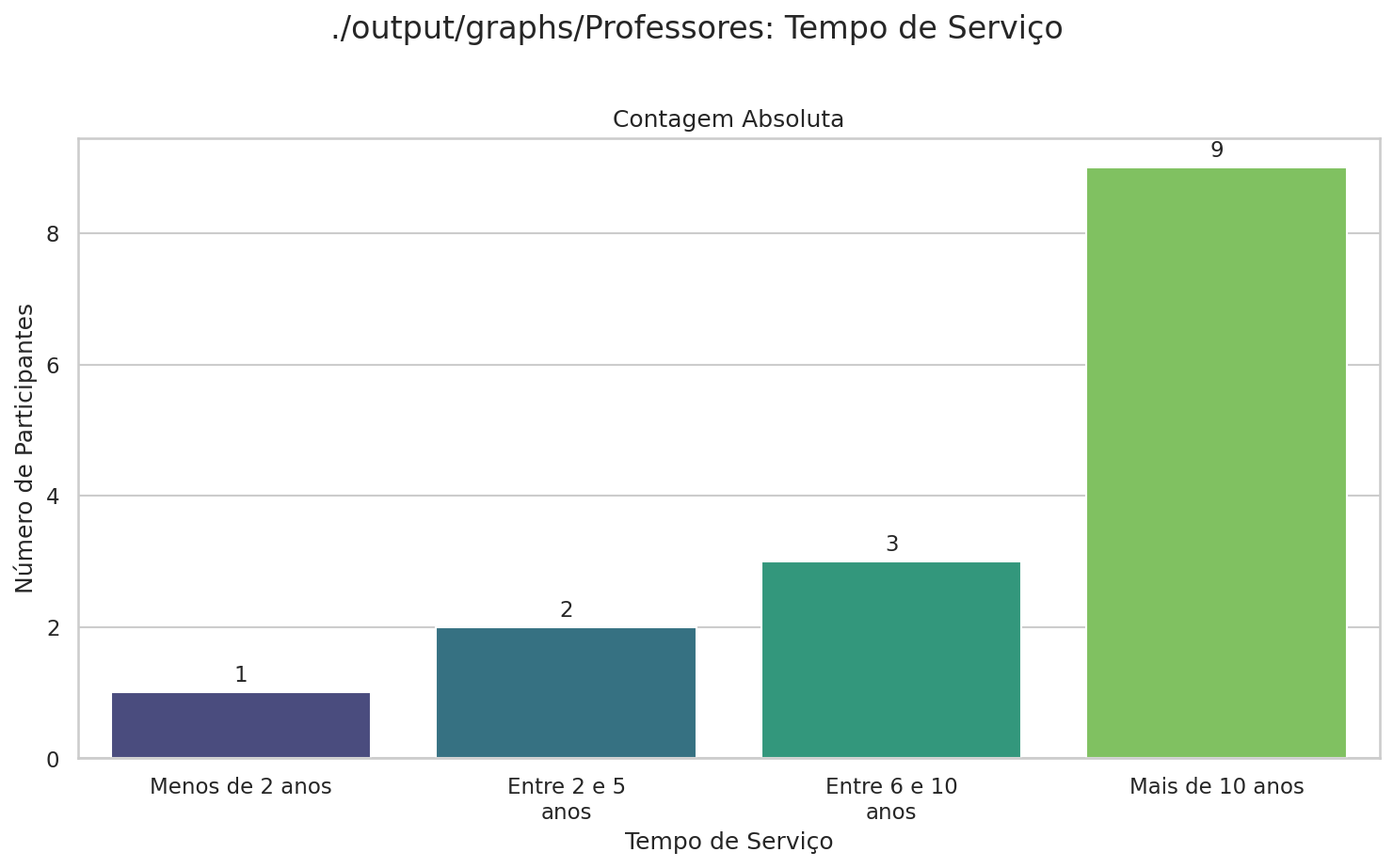
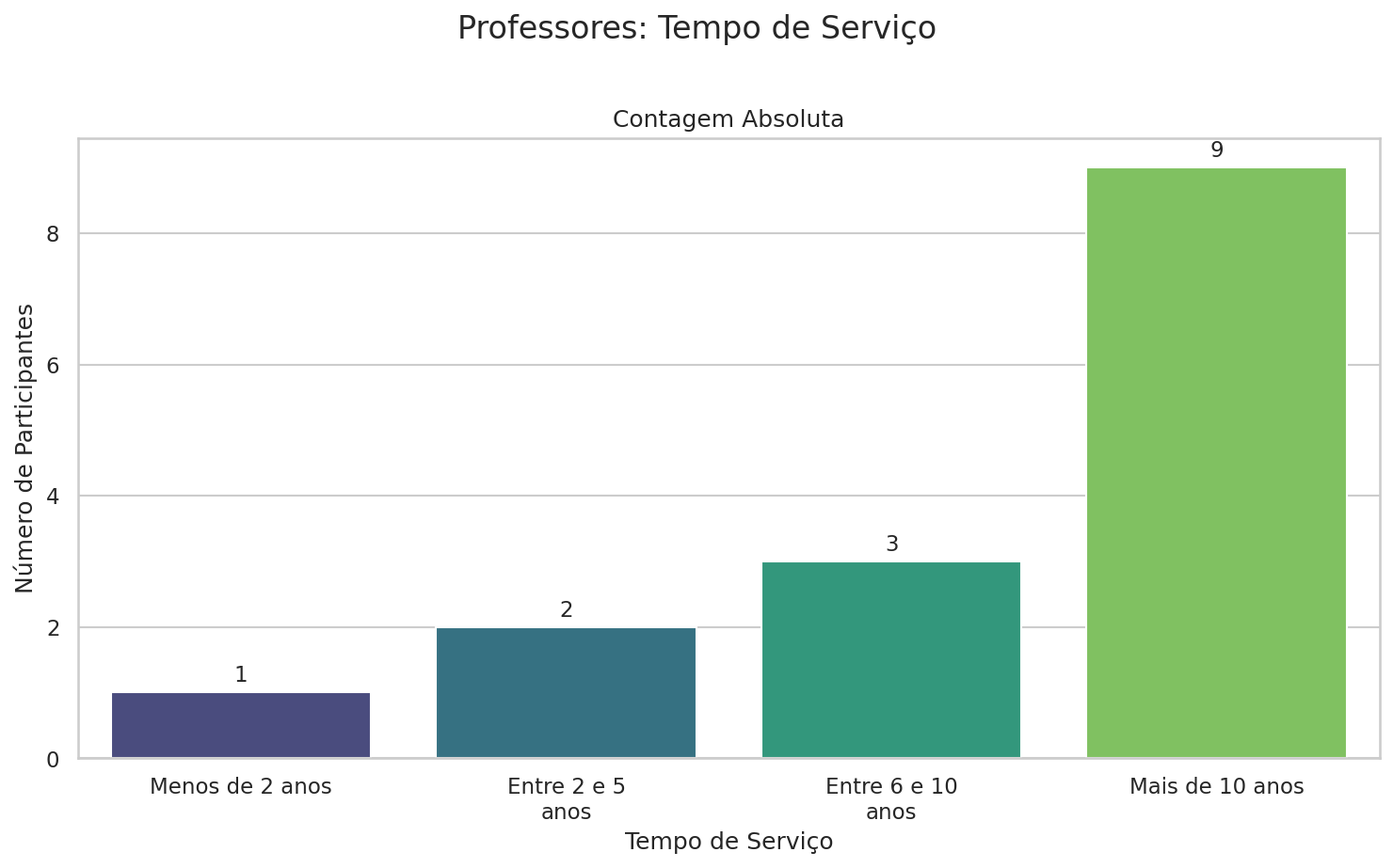
feat: updating code

Changed region(s): [[0.2486, 0.0, 0.777, 0.0607]]

diff --git a/app/process.py b/app/process.py
@@ -3,7 +3,7 @@ import numpy as np
 
 # --- 1. Load and Initial Clean ---
 try:
-    df = pd.read_csv('./input/teste.csv')
+    df = pd.read_csv('./input/respostas.csv')
     print("CSV loaded successfully.")
 except FileNotFoundError:
     print("Error: CSV file not found. Make sure 'Avaliação da Evolução dos Métodos de Planejamento de Aula.csv' is in the current directory.")
@@ -36,33 +36,33 @@ rename_map_prof = {
     '1.2 - Quais segmentos você leciona atualmente?': 'P1.2_Segmentos',
     '1.3 - Em uma escala de muito baixo a muito alto, qual seu nível de conforto geral com o uso de tecnologias digitais?': 'P1.3_Conforto_Tec',
     '1.4 - Para quantas TURMAS diferentes você leciona neste ano letivo?': 'P1.4_Num_Turmas',
-    '1.5 - Ao todo, quantos ""PLANOS DE AULA/CRONOGRAMA DE AULA"" (Conjunto de planejamentos de uma disciplina em um bimestre) você é responsável por desempenhar?': 'P1.5_Num_Planos',
-    '1.6 - Você também leciona em outra(s) escola(s) além da E.E. Doutor José Augusto?\xa0 Se sim,\xa0qual é o principal método de gestão acadêmica utilizado?': 'P1.6_Outra_Escola_Metodo',
+    '1.5 - Ao todo, quantos "PLANOS DE AULA/CRONOGRAMA DE AULA" (Conjunto de planejamentos de uma disciplina em um bimestre) você é responsável por desempenhar?': 'P1.5_Num_Planos',
+    '1.6 - Você também leciona em outra(s) escola(s) além da E.E. Doutor José Augusto?  Se sim, qual é o principal método de gestão acadêmica utilizado?': 'P1.6_Outra_Escola_Metodo',
     # Section 2: Eficiência
     '2.1 - O método era rápido para registrar planejamentos de aula [Manual]': 'P2.1_Rapidez_Manual',
     '2.1 - O método era rápido para registrar planejamentos de aula [Planilha]': 'P2.1_Rapidez_Planilha',
     '2.1 - O método era rápido para registrar planejamentos de aula [PlanningApp]': 'P2.1_Rapidez_PlanningApp',
-    '2.2 - Acessar os registros fora do ambiente escolar era uma tarefa simples.\xa0 \xa0[Manual]': 'P2.2_Acesso_Fora_Manual',
-    '2.2 - Acessar os registros fora do ambiente escolar era uma tarefa simples.\xa0 \xa0[Planilha]': 'P2.2_Acesso_Fora_Planilha',
-    '2.2 - Acessar os registros fora do ambiente escolar era uma tarefa simples.\xa0 \xa0[PlanningApp]': 'P2.2_Acesso_Fora_PlanningApp',
-    '2.3 - Era fácil encontrar informações de planejamentos passados.\xa0 \xa0[Manual]': 'P2.3_Encontrar_Info_Manual',
-    '2.3 - Era fácil encontrar informações de planejamentos passados.\xa0 \xa0[Planilha]': 'P2.3_Encontrar_Info_Planilha',
-    '2.3 - Era fácil encontrar informações de planejamentos passados.\xa0 \xa0[PlanningApp]': 'P2.3_Encontrar_Info_PlanningApp',
-    '2.4 - A necessidade de retrabalho (corrigir erros, refazer lançamentos) era baixa.\xa0 \xa0[Manual]': 'P2.4_Retrabalho_Manual',
-    '2.4 - A necessidade de retrabalho (corrigir erros, refazer lançamentos) era baixa.\xa0 \xa0[Planilha]': 'P2.4_Retrabalho_Planilha',
-    '2.4 - A necessidade de retrabalho (corrigir erros, refazer lançamentos) era baixa.\xa0 \xa0[PlanningApp]': 'P2.4_Retrabalho_PlanningApp',
-    '2.5 - O tempo total gasto com tarefas administrativas era razoável.\xa0 \xa0[Manual]': 'P2.5_Tempo_Admin_Manual',
-    '2.5 - O tempo total gasto com tarefas administrativas era razoável.\xa0 \xa0[Planilha]': 'P2.5_Tempo_Admin_Planilha',
-    '2.5 - O tempo total gasto com tarefas administrativas era razoável.\xa0 \xa0[PlanningApp]': 'P2.5_Tempo_Admin_PlanningApp',
+    '2.2 - Acessar os registros fora do ambiente escolar era uma tarefa simples.   [Manual]': 'P2.2_Acesso_Fora_Manual',
+    '2.2 - Acessar os registros fora do ambiente escolar era uma tarefa simples.   [Planilha]': 'P2.2_Acesso_Fora_Planilha',
+    '2.2 - Acessar os registros fora do ambiente escolar era uma tarefa simples.   [PlanningApp]': 'P2.2_Acesso_Fora_PlanningApp',
+    '2.3 - Era fácil encontrar informações de planejamentos passados.   [Manual]': 'P2.3_Encontrar_Info_Manual',
+    '2.3 - Era fácil encontrar informações de planejamentos passados.   [Planilha]': 'P2.3_Encontrar_Info_Planilha',
+    '2.3 - Era fácil encontrar informações de planejamentos passados.   [PlanningApp]': 'P2.3_Encontrar_Info_PlanningApp',
+    '2.4 - A necessidade de retrabalho (corrigir erros, refazer lançamentos) era baixa.   [Manual]': 'P2.4_Retrabalho_Manual',
+    '2.4 - A necessidade de retrabalho (corrigir erros, refazer lançamentos) era baixa.   [Planilha]': 'P2.4_Retrabalho_Planilha',
+    '2.4 - A necessidade de retrabalho (corrigir erros, refazer lançamentos) era baixa.   [PlanningApp]': 'P2.4_Retrabalho_PlanningApp',
+    '2.5 - O tempo total gasto com tarefas administrativas era razoável.   [Manual]': 'P2.5_Tempo_Admin_Manual',
+    '2.5 - O tempo total gasto com tarefas administrativas era razoável.   [Planilha]': 'P2.5_Tempo_Admin_Planilha',
+    '2.5 - O tempo total gasto com tarefas administrativas era razoável.   [PlanningApp]': 'P2.5_Tempo_Admin_PlanningApp',
     '2.6 - No método MANUAL (papel), qual era o tempo médio estimado que você gastava para elaborar o planejamento de UMA aula? ': 'P2.6_Tempo_Aula_Manual',
     '2.7 - No método com PLANILHAS online, qual era o tempo médio estimado que você gastava para elaborar o planejamento de UMA aula?': 'P2.7_Tempo_Aula_Planilha',
     # Section 3: Usabilidade
-    '3.1 - O método era fácil de aprender e usar.\xa0 \xa0[Manual]': 'P3.1_Facil_Aprender_Manual',
-    '3.1 - O método era fácil de aprender e usar.\xa0 \xa0[Planilha]': 'P3.1_Facil_Aprender_Planilha',
-    '3.1 - O método era fácil de aprender e usar.\xa0 \xa0[PlanningApp]': 'P3.1_Facil_Aprender_PlanningApp',
-    '3.2 - As informações estavam organizadas de forma clara e intuitiva.\xa0 \xa0[Manual]': 'P3.2_Org_Clara_Manual',
-    '3.2 - As informações estavam organizadas de forma clara e intuitiva.\xa0 \xa0[Planilha]': 'P3.2_Org_Clara_Planilha',
-    '3.2 - As informações estavam organizadas de forma clara e intuitiva.\xa0 \xa0[PlanningApp]': 'P3.2_Org_Clara_PlanningApp',
+    '3.1 - O método era fácil de aprender e usar.   [Manual]': 'P3.1_Facil_Aprender_Manual',
+    '3.1 - O método era fácil de aprender e usar.   [Planilha]': 'P3.1_Facil_Aprender_Planilha',
+    '3.1 - O método era fácil de aprender e usar.   [PlanningApp]': 'P3.1_Facil_Aprender_PlanningApp',
+    '3.2 - As informações estavam organizadas de forma clara e intuitiva.   [Manual]': 'P3.2_Org_Clara_Manual',
+    '3.2 - As informações estavam organizadas de forma clara e intuitiva.   [Planilha]': 'P3.2_Org_Clara_Planilha',
+    '3.2 - As informações estavam organizadas de forma clara e intuitiva.   [PlanningApp]': 'P3.2_Org_Clara_PlanningApp',
     '3.3 - O método ajudava a prevenir erros comuns no planejamento. [Manual]': 'P3.3_Prev_Erros_Manual',
     '3.3 - O método ajudava a prevenir erros comuns no planejamento. [Planilha]': 'P3.3_Prev_Erros_Planilha',
     '3.3 - O método ajudava a prevenir erros comuns no planejamento. [PlanningApp]': 'P3.3_Prev_Erros_PlanningApp',
@@ -85,33 +85,33 @@ rename_map_prof = {
     '4.3 - O método facilitava a colaboração e o compartilhamento de planos com outros professores. [Manual]': 'P4.3_Colaboracao_Manual',
     '4.3 - O método facilitava a colaboração e o compartilhamento de planos com outros professores. [Planilha]': 'P4.3_Colaboracao_Planilha',
     '4.3 - O método facilitava a colaboração e o compartilhamento de planos com outros professores. [PlanningApp]': 'P4.3_Colaboracao_PlanningApp',
-    '4.4 - A comunicação com a coordenação pedagógica era eficiente.\xa0 \xa0[Manual]': 'P4.4_Comun_Coord_Manual',
-    '4.4 - A comunicação com a coordenação pedagógica era eficiente.\xa0 \xa0[Planilha]': 'P4.4_Comun_Coord_Planilha',
-    '4.4 - A comunicação com a coordenação pedagógica era eficiente.\xa0 \xa0[PlanningApp]': 'P4.4_Comun_Coord_PlanningApp',
+    '4.4 - A comunicação com a coordenação pedagógica era eficiente.   [Manual]': 'P4.4_Comun_Coord_Manual',
+    '4.4 - A comunicação com a coordenação pedagógica era eficiente.   [Planilha]': 'P4.4_Comun_Coord_Planilha',
+    '4.4 - A comunicação com a coordenação pedagógica era eficiente.   [PlanningApp]': 'P4.4_Comun_Coord_PlanningApp',
     # Section 5: Bem-Estar
-    '5.1 - O método contribuía para reduzir meu nível de estresse com tarefas burocráticas.\xa0 \xa0[Manual]': 'P5.1_Reduz_Estresse_Manual',
-    '5.1 - O método contribuía para reduzir meu nível de estresse com tarefas burocráticas.\xa0 \xa0[Planilha]': 'P5.1_Reduz_Estresse_Planilha',
-    '5.1 - O método contribuía para reduzir meu nível de estresse com tarefas burocráticas.\xa0 \xa0[PlanningApp]': 'P5.1_Reduz_Estresse_PlanningApp',
-    '5.2 - O uso da ferramenta frequentemente me causava frustração (tecnoestresse).\xa0 \xa0[Manual]': 'P5.2_Causa_Frustracao_Manual',
-    '5.2 - O uso da ferramenta frequentemente me causava frustração (tecnoestresse).\xa0 \xa0[Planilha]': 'P5.2_Causa_Frustracao_Planilha',
-    '5.2 - O uso da ferramenta frequentemente me causava frustração (tecnoestresse).\xa0 \xa0[PlanningApp]': 'P5.2_Causa_Frustracao_PlanningApp',
-    '5.3 - Eu sentia que tinha controle e autonomia sobre meus planejamentos.\xa0 \xa0[Manual]': 'P5.3_Controle_Autonomia_Manual',
-    '5.3 - Eu sentia que tinha controle e autonomia sobre meus planejamentos.\xa0 \xa0[Planilha]': 'P5.3_Controle_Autonomia_Planilha',
-    '5.3 - Eu sentia que tinha controle e autonomia sobre meus planejamentos.\xa0 \xa0[PlanningApp]': 'P5.3_Controle_Autonomia_PlanningApp',
-    '5.4 - O método passava uma imagem de maior profissionalismo e organização do meu trabalho.\xa0 \xa0[Manual]': 'P5.4_Profissionalismo_Manual',
-    '5.4 - O método passava uma imagem de maior profissionalismo e organização do meu trabalho.\xa0 \xa0[Planilha]': 'P5.4_Profissionalismo_Planilha',
-    '5.4 - O método passava uma imagem de maior profissionalismo e organização do meu trabalho.\xa0 \xa0[PlanningApp]': 'P5.4_Profissionalismo_PlanningApp',
-    '5.5 - O método liberava meu tempo para focar em atividades mais estratégicas.\xa0 \xa0[Manual]': 'P5.5_Libera_Tempo_Manual',
-    '5.5 - O método liberava meu tempo para focar em atividades mais estratégicas.\xa0 \xa0[Planilha]': 'P5.5_Libera_Tempo_Planilha',
-    '5.5 - O método liberava meu tempo para focar em atividades mais estratégicas.\xa0 \xa0[PlanningApp]': 'P5.5_Libera_Tempo_PlanningApp',
+    '5.1 - O método contribuía para reduzir meu nível de estresse com tarefas burocráticas.   [Manual]': 'P5.1_Reduz_Estresse_Manual',
+    '5.1 - O método contribuía para reduzir meu nível de estresse com tarefas burocráticas.   [Planilha]': 'P5.1_Reduz_Estresse_Planilha',
+    '5.1 - O método contribuía para reduzir meu nível de estresse com tarefas burocráticas.   [PlanningApp]': 'P5.1_Reduz_Estresse_PlanningApp',
+    '5.2 - O uso da ferramenta frequentemente me causava frustração (tecnoestresse).   [Manual]': 'P5.2_Causa_Frustracao_Manual',
+    '5.2 - O uso da ferramenta frequentemente me causava frustração (tecnoestresse).   [Planilha]': 'P5.2_Causa_Frustracao_Planilha',
+    '5.2 - O uso da ferramenta frequentemente me causava frustração (tecnoestresse).   [PlanningApp]': 'P5.2_Causa_Frustracao_PlanningApp',
+    '5.3 - Eu sentia que tinha controle e autonomia sobre meus planejamentos.   [Manual]': 'P5.3_Controle_Autonomia_Manual',
+    '5.3 - Eu sentia que tinha controle e autonomia sobre meus planejamentos.   [Planilha]': 'P5.3_Controle_Autonomia_Planilha',
+    '5.3 - Eu sentia que tinha controle e autonomia sobre meus planejamentos.   [PlanningApp]': 'P5.3_Controle_Autonomia_PlanningApp',
+    '5.4 - O método passava uma imagem de maior profissionalismo e organização do meu trabalho.   [Manual]': 'P5.4_Profissionalismo_Manual',
+    '5.4 - O método passava uma imagem de maior profissionalismo e organização do meu trabalho.   [Planilha]': 'P5.4_Profissionalismo_Planilha',
+    '5.4 - O método passava uma imagem de maior profissionalismo e organização do meu trabalho.   [PlanningApp]': 'P5.4_Profissionalismo_PlanningApp',
+    '5.5 - O método liberava meu tempo para focar em atividades mais estratégicas.   [Manual]': 'P5.5_Libera_Tempo_Manual',
+    '5.5 - O método liberava meu tempo para focar em atividades mais estratégicas.   [Planilha]': 'P5.5_Libera_Tempo_Planilha',
+    '5.5 - O método liberava meu tempo para focar em atividades mais estratégicas.   [PlanningApp]': 'P5.5_Libera_Tempo_PlanningApp',
     # Section 6: Abertas
-    '6.1 - Por favor, descreva uma situação ou tarefa específica que o novo Sistema de Planejamento tornou muito mais simples de realizar em comparação com os métodos anteriores.\xa0 ': 'P6.1_Situacao_Simples',
-    '6.2 - Pensando no impacto final do nosso trabalho, você acredita que a organização proporcionada pelo Sistema de Planejamento pode, de alguma forma, beneficiar os alunos indiretamente? Se sim, como?\xa0 ': 'P6.2_Beneficio_Alunos',
+    '6.1 - Por favor, descreva uma situação ou tarefa específica que o novo Sistema de Planejamento tornou muito mais simples de realizar em comparação com os métodos anteriores.  ': 'P6.1_Situacao_Simples',
+    '6.2 - Pensando no impacto final do nosso trabalho, você acredita que a organização proporcionada pelo Sistema de Planejamento pode, de alguma forma, beneficiar os alunos indiretamente? Se sim, como?  ': 'P6.2_Beneficio_Alunos',
     '6.3 - Se você pudesse definir em uma única palavra ou expressão o sentimento ao usar o método manual, qual seria?': 'P6.3_Sentimento_Manual',
     '6.4 - Se você pudesse definir em uma única palavra ou expressão o sentimento ao usar o método de Planilhas, qual seria?': 'P6.4_Sentimento_Planilha',
     '6.5 - Se você pudesse definir em uma única palavra ou expressão o sentimento ao usar o método de Sistema de Planejamento Online, qual seria?': 'P6.5_Sentimento_PlanningApp',
     '6.6 - Você tem alguma sugestão de melhoria para o módulo de professor do sistema de planejamento? (Ex: novos relatórios, dashboards, notificações, etc.). ': 'P6.6_Sugestao_Melhoria',
-    '6.7 - Pensando nas funcionalidades pedagógicas (criação de planejamentos, gestão de turmas etc.), quais foram os principais benefícios ou desafios encontrados no novo\xa0 sistema de planejamento?': 'P6.7_Beneficios_Desafios'
+    '6.7 - Pensando nas funcionalidades pedagógicas (criação de planejamentos, gestão de turmas etc.), quais foram os principais benefícios ou desafios encontrados no novo  sistema de planejamento?': 'P6.7_Beneficios_Desafios'
 }
 
 # Apply renaming (ignore errors for columns not present, e.g., supervisor questions)
@@ -121,30 +121,83 @@ df_professores = df_professores.rename(columns=rename_map_prof, errors='ignore')
 rename_map_sup = {
     # Perfil (1.1 a 1.3)
     '1.1 - Qual sua principal função na equipe gestora?': 'S1.1_Funcao_Gestora',
-    '1.2 - Há quantos anos você atua em cargos de gestão ou supervisão nesta escola?\xa0 ': 'S1.2_Tempo_Gestao',
-    '1.3 - Sua rotina de trabalho envolve ou envolveu o uso de outras plataformas ou sistemas de gestão em outras instituições?\xa0 ': 'S1.3_Outras_Plataformas',
+    '1.2 - Há quantos anos você atua em cargos de gestão ou supervisão nesta escola?  ': 'S1.2_Tempo_Gestao',
+    '1.3 - Sua rotina de trabalho envolve ou envolveu o uso de outras plataformas ou sistemas de gestão em outras instituições?  ': 'S1.3_Outras_Plataformas',
     # Seção 2: Supervisão
-    '2.1 - Era fácil ter uma visão geral e centralizada do status dos planejamentos de todos os professores.\xa0 \xa0[Manual]': 'S2.1_Visao_Geral_Manual',
-    '2.1 - Era fácil ter uma visão geral e centralizada do status dos planejamentos de todos os professores.\xa0 \xa0[Planilha]': 'S2.1_Visao_Geral_Planilha',
-    '2.1 - Era fácil ter uma visão geral e centralizada do status dos planejamentos de todos os professores.\xa0 \xa0[PlanningApp]': 'S2.1_Visao_Geral_PlanningApp',
-    '2.2 - O processo de fornecer feedback (avaliacão) aos professores era ágil e bem documentado.\xa0 \xa0[Manual]': 'S2.2_Feedback_Agil_Manual',
-    '2.2 - O processo de fornecer feedback (avaliacão) aos professores era ágil e bem documentado.\xa0 \xa0[Planilha]': 'S2.2_Feedback_Agil_Planilha',
-    '2.2 - O processo de fornecer feedback (avaliacão) aos professores era ágil e bem documentado.\xa0 \xa0[PlanningApp]': 'S2.2_Feedback_Agil_PlanningApp',
-    '2.3 - Identificar planejamentos pendentes ou que precisavam de revisão era uma tarefa rápida.\xa0 \xa0[Manual]': 'S2.3_Identifica_Pendentes_Manual',
-    '2.3 - Identificar planejamentos pendentes ou que precisavam de revisão era uma tarefa rápida.\xa0 \xa0[Planilha]': 'S2.3_Identifica_Pendentes_Planilha',
-    '2.3 - Identificar planejamentos pendentes ou que precisavam de revisão era uma tarefa rápida.\xa0 \xa0[PlanningApp]': 'S2.3_Identifica_Pendentes_PlanningApp',
+    '2.1 - Era fácil ter uma visão geral e centralizada do status dos planejamentos de todos os professores.   [Manual]': 'S2.1_Visao_Geral_Manual',
+    '2.1 - Era fácil ter uma visão geral e centralizada do status dos planejamentos de todos os professores.   [Planilha]': 'S2.1_Visao_Geral_Planilha',
+    '2.1 - Era fácil ter uma visão geral e centralizada do status dos planejamentos de todos os professores.   [PlanningApp]': 'S2.1_Visao_Geral_PlanningApp',
+    '2.2 - O processo de fornecer feedback (avaliacão) aos professores era ágil e bem documentado.   [Manual]': 'S2.2_Feedback_Agil_Manual',
+    '2.2 - O processo de fornecer feedback (avaliacão) aos professores era ágil e bem documentado.   [Planilha]': 'S2.2_Feedback_Agil_Planilha',
+    '2.2 - O processo de fornecer feedback (avaliacão) aos professores era ágil e bem documentado.   [PlanningApp]': 'S2.2_Feedback_Agil_PlanningApp',
+    '2.3 - Identificar planejamentos pendentes ou que precisavam de revisão era uma tarefa rápida.   [Manual]': 'S2.3_Identifica_Pendentes_Manual',
+    '2.3 - Identificar planejamentos pendentes ou que precisavam de revisão era uma tarefa rápida.   [Planilha]': 'S2.3_Identifica_Pendentes_Planilha',
+    '2.3 - Identificar planejamentos pendentes ou que precisavam de revisão era uma tarefa rápida.   [PlanningApp]': 'S2.3_Identifica_Pendentes_PlanningApp',
     '2.4 - Verificar o alinhamento dos planejamentos com a BNCC , CRMG, ENADE, SAEB e outras diretrizes era um processo simples. [Manual]': 'S2.4_Verifica_Alinhamento_Manual',
     '2.4 - Verificar o alinhamento dos planejamentos com a BNCC , CRMG, ENADE, SAEB e outras diretrizes era um processo simples. [Planilha]': 'S2.4_Verifica_Alinhamento_Planilha',
     '2.4 - Verificar o alinhamento dos planejamentos com a BNCC , CRMG, ENADE, SAEB e outras diretrizes era um processo simples. [PlanningApp]': 'S2.4_Verifica_Alinhamento_PlanningApp',
-    '2.5 - O tempo gasto em tarefas operacionais de supervisão (procurar arquivos, controlar versões) era baixo.\xa0 \xa0[Manual]': 'S2.5_Tempo_Operacional_Manual',
-    '2.5 - O tempo gasto em tarefas operacionais de supervisão (procurar arquivos, controlar versões) era baixo.\xa0 \xa0[Planilha]': 'S2.5_Tempo_Operacional_Planilha',
-    '2.5 - O tempo gasto em tarefas operacionais de supervisão (procurar arquivos, controlar versões) era baixo.\xa0 \xa0[PlanningApp]': 'S2.5_Tempo_Operacional_PlanningApp',
+    '2.5 - O tempo gasto em tarefas operacionais de supervisão (procurar arquivos, controlar versões) era baixo.   [Manual]': 'S2.5_Tempo_Operacional_Manual',
+    '2.5 - O tempo gasto em tarefas operacionais de supervisão (procurar arquivos, controlar versões) era baixo.   [Planilha]': 'S2.5_Tempo_Operacional_Planilha',
+    '2.5 - O tempo gasto em tarefas operacionais de supervisão (procurar arquivos, controlar versões) era baixo.   [PlanningApp]': 'S2.5_Tempo_Operacional_PlanningApp',
     # Seção 3: Usabilidade
-    '3.1 - O método era fácil de aprender e usar.\xa0 \xa0[Manual]': 'S3.1_Facil_Aprender_Manual',
-    '3.1 - O método era fácil de aprender e usar.\xa0 \xa0[Planilha]': 'S3.1_Facil_Aprender_Planilha',
-    '3.1 - O método era fácil de aprender e usar.\xa0 \xa0[PlanningApp]': 'S3.1_Facil_Aprender_PlanningApp',
-    # ... (Continue mapping ALL supervisor questions from section 3 to 7) ...
-     '7.5 - Você tem alguma sugestão de melhoria para o módulo de supervisão/administração do sistema de planejamento? (Ex: novos relatórios, dashboards, notificações, etc.).\xa0 ': 'S7.5_Sugestao_Melhoria_Sup'
+    '3.1 - O método era fácil de aprender e usar.   [Manual]': 'S3.1_Facil_Aprender_Manual',
+    '3.1 - O método era fácil de aprender e usar.   [Planilha]': 'S3.1_Facil_Aprender_Planilha',
+    '3.1 - O método era fácil de aprender e usar.   [PlanningApp]': 'S3.1_Facil_Aprender_PlanningApp',
+    # Seção 3: Usabilidade (continuação)
+    '3.2 - As informações estavam organizadas de forma clara e intuitiva.   [Manual]': 'S3.2_Org_Clara_Manual',
+    '3.2 - As informações estavam organizadas de forma clara e intuitiva.   [Planilha]': 'S3.2_Org_Clara_Planilha',
+    '3.2 - As informações estavam organizadas de forma clara e intuitiva.   [PlanningApp]': 'S3.2_Org_Clara_PlanningApp',
+    '3.3 - O método ajudava a prevenir erros comuns no planejamento. [Manual]': 'S3.3_Prev_Erros_Manual',
+    '3.3 - O método ajudava a prevenir erros comuns no planejamento. [Planilha]': 'S3.3_Prev_Erros_Planilha',
+    '3.3 - O método ajudava a prevenir erros comuns no planejamento. [PlanningApp]': 'S3.3_Prev_Erros_PlanningApp',
+    '3.4 - Eu me sentia seguro(a) de que os registros não seriam perdidos. [Manual]': 'S3.4_Seguro_Dados_Manual',
+    '3.4 - Eu me sentia seguro(a) de que os registros não seriam perdidos. [Planilha]': 'S3.4_Seguro_Dados_Planilha',
+    '3.4 - Eu me sentia seguro(a) de que os registros não seriam perdidos. [PlanningApp]': 'S3.4_Seguro_Dados_PlanningApp',
+    '3.5 - Era fácil obter ajuda ou suporte em caso de dúvidas sobre o uso. [Manual]': 'S3.5_Suporte_Facil_Manual',
+    '3.5 - Era fácil obter ajuda ou suporte em caso de dúvidas sobre o uso. [Planilha]': 'S3.5_Suporte_Facil_Planilha',
+    '3.5 - Era fácil obter ajuda ou suporte em caso de dúvidas sobre o uso. [PlanningApp]': 'S3.5_Suporte_Facil_PlanningApp',
+    '3.7 - Minha satisfação geral com o método era alta. [Manual]': 'S3.7_Satisfacao_Geral_Manual',
+    '3.7 - Minha satisfação geral com o método era alta. [Planilha]': 'S3.7_Satisfacao_Geral_Planilha',
+    '3.7 - Minha satisfação geral com o método era alta. [PlanningApp]': 'S3.7_Satisfacao_Geral_PlanningApp',
+    # Seção 4: Gestão Administrativa
+    '4.1 - O processo de configurar a estrutura do ano letivo (turmas, disciplinas) era organizado.   [Manual]': 'S4.1_Config_Ano_Manual',
+    '4.1 - O processo de configurar a estrutura do ano letivo (turmas, disciplinas) era organizado.   [Planilha]': 'S4.1_Config_Ano_Planilha',
+    '4.1 - O processo de configurar a estrutura do ano letivo (turmas, disciplinas) era organizado.   [PlanningApp]': 'S4.1_Config_Ano_PlanningApp',
+    '4.2 - Gerenciar os professores era uma tarefa simples.   [Manual]': 'S4.2_Gerencia_Profs_Manual',
+    '4.2 - Gerenciar os professores era uma tarefa simples.   [Planilha]': 'S4.2_Gerencia_Profs_Planilha',
+    '4.2 - Gerenciar os professores era uma tarefa simples.   [PlanningApp]': 'S4.2_Gerencia_Profs_PlanningApp',
+    '4.3 - Eu tinha confiança na segurança e na integridade dos registros sob minha responsabilidade.   [Manual]': 'S4.3_Confianca_Dados_Manual',
+    '4.3 - Eu tinha confiança na segurança e na integridade dos registros sob minha responsabilidade.   [Planilha]': 'S4.3_Confianca_Dados_Planilha',
+    '4.3 - Eu tinha confiança na segurança e na integridade dos registros sob minha responsabilidade.   [PlanningApp]': 'S4.3_Confianca_Dados_PlanningApp',
+    # Seção 5: Visão Estratégica
+    '5.1 - O metodo permitia extrair registros consolidados para apoiar a tomada de decisões pedagógicas.   [Manual]': 'S5.1_Extrai_Dados_Decisao_Manual',
+    '5.1 - O metodo permitia extrair registros consolidados para apoiar a tomada de decisões pedagógicas.   [Planilha]': 'S5.1_Extrai_Dados_Decisao_Planilha',
+    '5.1 - O metodo permitia extrair registros consolidados para apoiar a tomada de decisões pedagógicas.   [PlanningApp]': 'S5.1_Extrai_Dados_Decisao_PlanningApp',
+    '5.2 - O método otimizava a comunicação e a transparência entre a equipe gestora e o corpo docente.   [Manual]': 'S5.2_Otimiza_Comun_Manual',
+    '5.2 - O método otimizava a comunicação e a transparência entre a equipe gestora e o corpo docente.   [Planilha]': 'S5.2_Otimiza_Comun_Planilha',
+    '5.2 - O método otimizava a comunicação e a transparência entre a equipe gestora e o corpo docente.   [PlanningApp]': 'S5.2_Otimiza_Comun_PlanningApp',
+    # Seção 6: Bem-Estar
+    '6.1 - O método contribuía para reduzir meu nível de estresse com tarefas burocráticas.   [Manual]': 'S6.1_Reduz_Estresse_Manual',
+    '6.1 - O método contribuía para reduzir meu nível de estresse com tarefas burocráticas.   [Planilha]': 'S6.1_Reduz_Estresse_Planilha',
+    '6.1 - O método contribuía para reduzir meu nível de estresse com tarefas burocráticas.   [PlanningApp]': 'S6.1_Reduz_Estresse_PlanningApp',
+    '6.2 - O uso da ferramenta frequentemente me causava frustração (tecnoestresse).   [Manual]': 'S6.2_Causa_Frustracao_Manual',
+    '6.2 - O uso da ferramenta frequentemente me causava frustração (tecnoestresse).   [Planilha]': 'S6.2_Causa_Frustracao_Planilha',
+    '6.2 - O uso da ferramenta frequentemente me causava frustração (tecnoestresse).   [PlanningApp]': 'S6.2_Causa_Frustracao_PlanningApp',
+    '6.3 - Eu sentia que tinha controle e autonomia sobre meus planejamentos.   [Manual]': 'S6.3_Controle_Autonomia_Manual',
+    '6.3 - Eu sentia que tinha controle e autonomia sobre meus planejamentos.   [Planilha]': 'S6.3_Controle_Autonomia_Planilha',
+    '6.3 - Eu sentia que tinha controle e autonomia sobre meus planejamentos.   [PlanningApp]': 'S6.3_Controle_Autonomia_PlanningApp',
+    '6.4 - O método passava uma imagem de maior profissionalismo e organização do meu trabalho.   [Manual]': 'S6.4_Profissionalismo_Manual',
+    '6.4 - O método passava uma imagem de maior profissionalismo e organização do meu trabalho.   [Planilha]': 'S6.4_Profissionalismo_Planilha',
+    '6.4 - O método passava uma imagem de maior profissionalismo e organização do meu trabalho.   [PlanningApp]': 'S6.4_Profissionalismo_PlanningApp',
+    '6.5 - O método liberava meu tempo para focar em atividades mais estratégicas.   [Manual]': 'S6.5_Libera_Tempo_Manual',
+    '6.5 - O método liberava meu tempo para focar em atividades mais estratégicas.   [Planilha]': 'S6.5_Libera_Tempo_Planilha',
+    '6.5 - O método liberava meu tempo para focar em atividades mais estratégicas.   [PlanningApp]': 'S6.5_Libera_Tempo_PlanningApp',
+    # Seção 7: Abertas
+    '7.1 - Do ponto de vista da supervisão, qual era o maior ""gargalo"" ou dificuldade no processo de supervisão e acompanhamento dos planejamentos durante a fase das planilhas online?  ': 'S7.1_Gargalo_Planilhas',
+    '7.2 - Qual foi o impacto mais significativo (positivo ou negativo) que o novo sistema de planejamento trouxe para a sua rotina de trabalho como gestor(a)?  ': 'S7.2_Impacto_Significativo',
+    '7.3 - Como o novo sistema de planejamento alterou a dinâmica de feedback (avaliação) e comunicação entre você e os professores sobre os planejamentos?  ': 'S7.3_Dinamica_Feedback',
+    '7.4 - Pensando nas funcionalidades administrativas (criação de turmas, gestão de usuários, etc.), quais foram os principais benefícios ou desafios encontrados no novo  sistema de planejamento ?  ': 'S7.4_Beneficios_Desafios_Admin',
+     '7.5 - Você tem alguma sugestão de melhoria para o módulo de supervisão/administração do sistema de planejamento? (Ex: novos relatórios, dashboards, notificações, etc.).  ': 'S7.5_Sugestao_Melhoria_Sup'
 
 }
 df_supervisores = df_supervisores.rename(columns=rename_map_sup, errors='ignore')

diff --git a/app/graph.py b/app/graph.py
@@ -160,25 +160,25 @@ order_conforto = ['Muito baixo', 'Baixo', 'Médio', 'Alto', 'Muito alto']
 order_turmas = ['1 a 3 turmas', '4 a 6 turmas', '7 a 9 turmas', '10 ou mais turmas']
 order_planos = ['1 a 4 diários', '5 a 8 diários', '9 a 12 diários', '13 ou mais diários']
 
-plot_profile_chart(df_professores, 'P1.1_Tempo_Servico', './output/graphs/Professores: Tempo de Serviço', '01_prof_tempo_servico.png', order=order_tempo_srv, xlabel="Tempo de Serviço")
-plot_profile_chart(df_professores, 'P1.2_Segmentos', './output/graphs/Professores: Segmentos de Atuação', '02_prof_segmentos.png', plot_type='pie')
-plot_profile_chart(df_professores, 'P1.3_Conforto_Tec', './output/graphs/Professores: Conforto com Tecnologia', '03_prof_conforto_tec.png', order=order_conforto, xlabel="Nível de Conforto")
-plot_profile_chart(df_professores, 'P1.4_Num_Turmas', './output/graphs/Professores: Número de Turmas', '04_prof_num_turmas.png', order=order_turmas, xlabel="Número de Turmas")
-plot_profile_chart(df_professores, 'P1.5_Num_Planos', './output/graphs/Professores: Número de Planos/Cronogramas', '05_prof_num_planos.png', order=order_planos, xlabel="Número de Planos")
-plot_profile_chart(df_professores, 'P1.6_Outra_Escola_Metodo', './output/graphs/Professores: Atuação em Outras Escolas', '06_prof_outra_escola.png', plot_type='bar', xlabel="Método na Outra Escola")
+plot_profile_chart(df_professores, 'P1.1_Tempo_Servico', 'Professores: Tempo de Serviço', '01_prof_tempo_servico.png', order=order_tempo_srv, xlabel="Tempo de Serviço")
+plot_profile_chart(df_professores, 'P1.2_Segmentos', 'Professores: Segmentos de Atuação', '02_prof_segmentos.png', plot_type='pie')
+plot_profile_chart(df_professores, 'P1.3_Conforto_Tec', 'Professores: Conforto com Tecnologia', '03_prof_conforto_tec.png', order=order_conforto, xlabel="Nível de Conforto")
+plot_profile_chart(df_professores, 'P1.4_Num_Turmas', 'Professores: Número de Turmas', '04_prof_num_turmas.png', order=order_turmas, xlabel="Número de Turmas")
+plot_profile_chart(df_professores, 'P1.5_Num_Planos', 'Professores: Número de Planos/Cronogramas', '05_prof_num_planos.png', order=order_planos, xlabel="Número de Planos")
+plot_profile_chart(df_professores, 'P1.6_Outra_Escola_Metodo', 'Professores: Atuação em Outras Escolas', '06_prof_outra_escola.png', plot_type='bar', xlabel="Método na Outra Escola")
 
 # Supervisores
-order_tempo_gest = ['Menos de 2 anos', 'Entre 2 e 5 anos', 'Mais de 5 anos'] # Verifique se as opções são essas mesmo no seu forms
+order_tempo_gest = ['Menos de 2 anos', 'Entre 2 e 5 anos', 'Entre 5 e 10 anos', 'Mais de 10 anos'] # Ordem para supervisores
 # Ajuste 'Mais de 5 anos' se for diferente, ex: 'Entre 5 e 10 anos', 'Mais de 10 anos'
 
 # Verificar se as colunas existem antes de plotar (evita erros se não houver supervisor)
 if not df_supervisores.empty:
     if 'S1.1_Funcao_Gestora' in df_supervisores.columns:
-        plot_profile_chart(df_supervisores, 'S1.1_Funcao_Gestora', './output/graphs/Supervisores: Função na Equipe Gestora', '07_sup_funcao.png', plot_type='pie')
+        plot_profile_chart(df_supervisores, 'S1.1_Funcao_Gestora', 'Supervisores: Função na Equipe Gestora', '07_sup_funcao.png', plot_type='pie')
     if 'S1.2_Tempo_Gestao' in df_supervisores.columns:
-         plot_profile_chart(df_supervisores, 'S1.2_Tempo_Gestao', './output/graphs/Supervisores: Tempo no Cargo', '08_sup_tempo_gestao.png', order=order_tempo_gest, xlabel="Tempo no Cargo") # Use order aqui se fizer sentido
+         plot_profile_chart(df_supervisores, 'S1.2_Tempo_Gestao', 'Supervisores: Tempo no Cargo', '08_sup_tempo_gestao.png', order=order_tempo_gest, xlabel="Tempo no Cargo") # Use order aqui se fizer sentido
     if 'S1.3_Outras_Plataformas' in df_supervisores.columns:
-        plot_profile_chart(df_supervisores, 'S1.3_Outras_Plataformas', './output/graphs/Supervisores: Uso de Outras Plataformas', '09_sup_outras_plat.png', plot_type='pie')
+        plot_profile_chart(df_supervisores, 'S1.3_Outras_Plataformas', 'Supervisores: Uso de Outras Plataformas', '09_sup_outras_plat.png', plot_type='pie')
 else:
     print("Aviso: Nenhum dado de supervisor encontrado para gerar gráficos de perfil.")
 
@@ -219,9 +219,9 @@ order_tempo_aula = ['Menos de 10 minutos', 'Entre 10 e 20 minutos', 'Entre 20 e 
 
 # Professores
 if 'P2.6_Tempo_Aula_Manual' in df_professores.columns:
-    plot_profile_chart(df_professores, 'P2.6_Tempo_Aula_Manual', './output/graphs/Professores: Tempo Estimado por Aula (Manual)', '19_tempo_manual_prof.png', plot_type='bar', order=order_tempo_aula, xlabel="Tempo Estimado (min)")
+    plot_profile_chart(df_professores, 'P2.6_Tempo_Aula_Manual', 'Professores: Tempo Estimado por Aula (Manual)', '19_tempo_manual_prof.png', plot_type='bar', order=order_tempo_aula, xlabel="Tempo Estimado (min)")
 if 'P2.7_Tempo_Aula_Planilha' in df_professores.columns:
-    plot_profile_chart(df_professores, 'P2.7_Tempo_Aula_Planilha', './output/graphs/Professores: Tempo Estimado por Aula (Planilha)', '20_tempo_planilha_prof.png', plot_type='bar', order=order_tempo_aula, xlabel="Tempo Estimado (min)")
+    plot_profile_chart(df_professores, 'P2.7_Tempo_Aula_Planilha', 'Professores: Tempo Estimado por Aula (Planilha)', '20_tempo_planilha_prof.png', plot_type='bar', order=order_tempo_aula, xlabel="Tempo Estimado (min)")
 
 # Supervisores (Adicione mapeamentos S2.6 e S2.7 se existirem)
 # Exemplo de como seria se as colunas existissem e fossem mapeadas:
